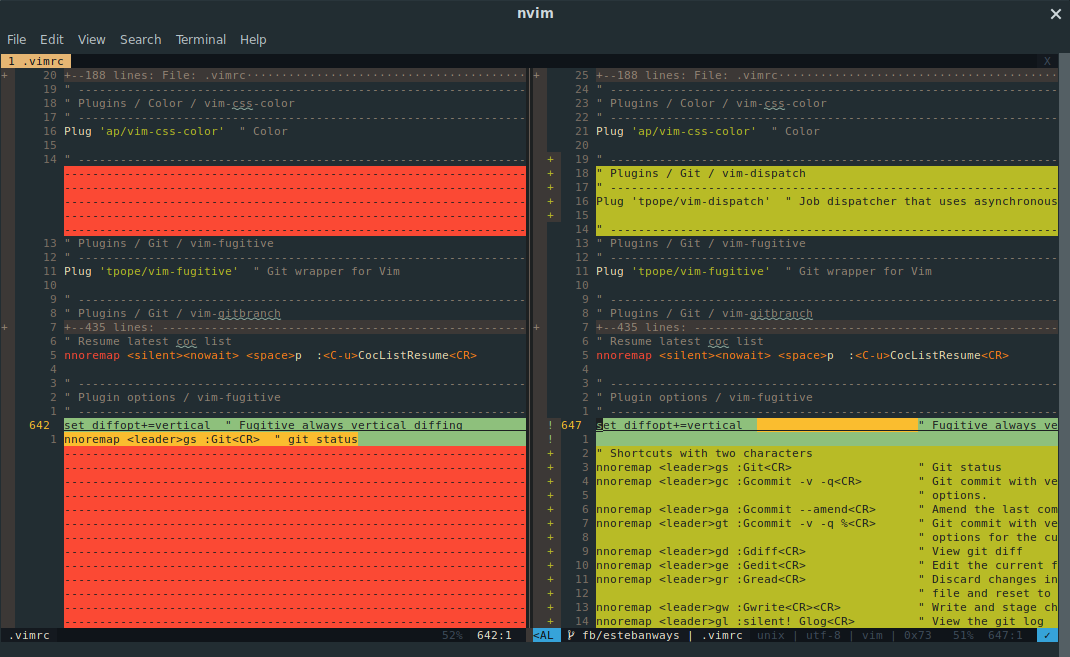
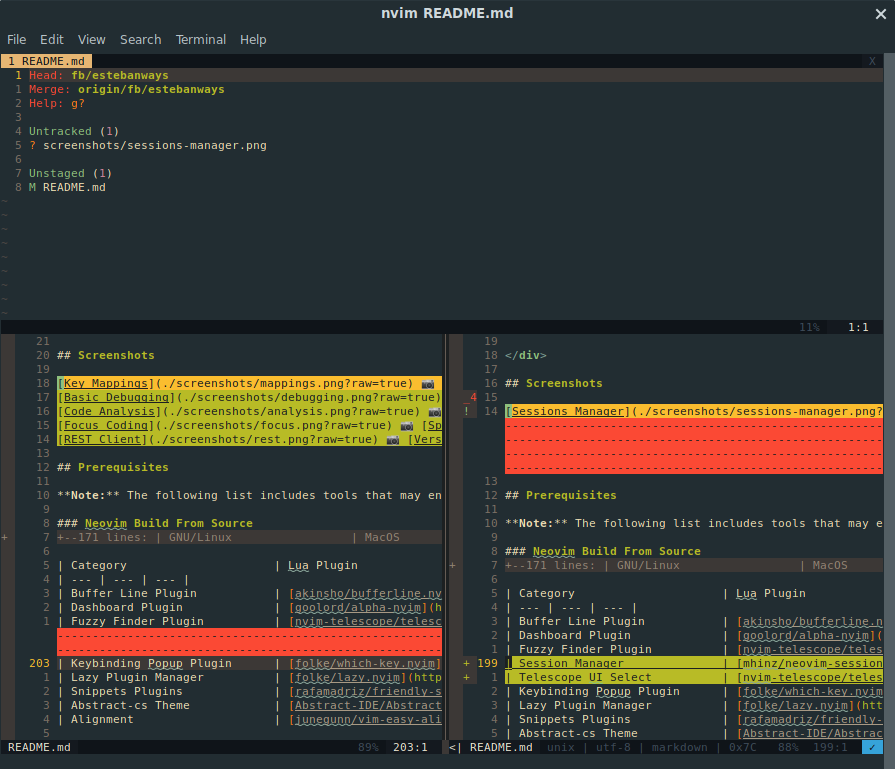
Add more plugins

diff --git a/README.md b/README.md
@@ -12,11 +12,7 @@ A lightweight Vim/Neovim text editor and IDE designed for simplicity and efficie
 
 ## Screenshots
 
-[Key Mappings](./screenshots/mappings.png?raw=true) 📷 [Lists Finder](./screenshots/finder.png?raw=true) 📷 
-[Basic Debugging](./screenshots/debugging.png?raw=true) 📷 [Diagnostics Indicators](./screenshots/indicators.png?raw=true) 📷 
-[Code Analysis](./screenshots/analysis.png?raw=true) 📷 [Auto-completion and Suggestions](./screenshots/auto-completion.png?raw=true) 📷 
-[Focus Coding](./screenshots/focus.png?raw=true) 📷 [Split Windows](./screenshots/split-windows.png?raw=true) 📷 
-[REST Client](./screenshots/rest.png?raw=true) 📷 [Version Control](./screenshots/version-control.png?raw=true) 📷 [Themes](./screenshots/themes.png?raw=true)
+[Sessions Manager](./screenshots/sessions-manager.png?raw=true) 📷 [Key Mappings](./screenshots/mappings.png?raw=true) 📷 [Lists Finder](./screenshots/finder.png?raw=true) 📷 [Basic Debugging](./screenshots/debugging.png?raw=true) 📷 [Diagnostics Indicators](./screenshots/indicators.png?raw=true) 📷 [Code Analysis](./screenshots/analysis.png?raw=true) 📷 [Auto-completion and Suggestions](./screenshots/auto-completion.png?raw=true) 📷 [Focus Coding](./screenshots/focus.png?raw=true) 📷 [Split Windows](./screenshots/split-windows.png?raw=true) 📷 [REST Client](./screenshots/rest.png?raw=true) 📷 [Version Control](./screenshots/version-control.png?raw=true) 📷 [Themes](./screenshots/themes.png?raw=true)
 
 ## Prerequisites
 
@@ -200,6 +196,8 @@ A lightweight Vim/Neovim text editor and IDE designed for simplicity and efficie
 | Buffer Line Plugin           | [akinsho/bufferline.nvim](https://github.com/akinsho/bufferline.nvim)       | Snazzy buffer line with tabpage integration.                |
 | Dashboard Plugin             | [goolord/alpha-nvim](https://github.com/goolord/alpha-nvim)                 | Lua powered greeter like vim-startify/dashboard-nvim.       |
 | Fuzzy Finder Plugin          | [nvim-telescope/telescope.nvim](https://github.com/nvim-telescope/telescope.nvim) | Highly extendable fuzzy finder over lists.            |
+| Session Manager              | [mhinz/neovim-session-manager](https://github.com/mhinz/neovim-session-manager) | A session manager for Neovim.                           |
+| Telescope UI Select          | [nvim-telescope/telescope-ui-select.nvim](https://github.com/nvim-telescope/telescope-ui-select.nvim) | UI extension for telescope to easily select items. |
 | Keybinding Popup Plugin      | [folke/which-key.nvim](https://github.com/folke/which-key.nvim)             | Displays a popup with possible keybindings.                 |
 | Lazy Plugin Manager          | [folke/lazy.nvim](https://github.com/folke/lazy.nvim)                     | Modern plugin manager for Neovim (commented out in the code). |
 | Snippets Plugins             | [rafamadriz/friendly-snippets](https://github.com/rafamadriz/friendly-snippets) | Snippets collection for various programming languages.  |
